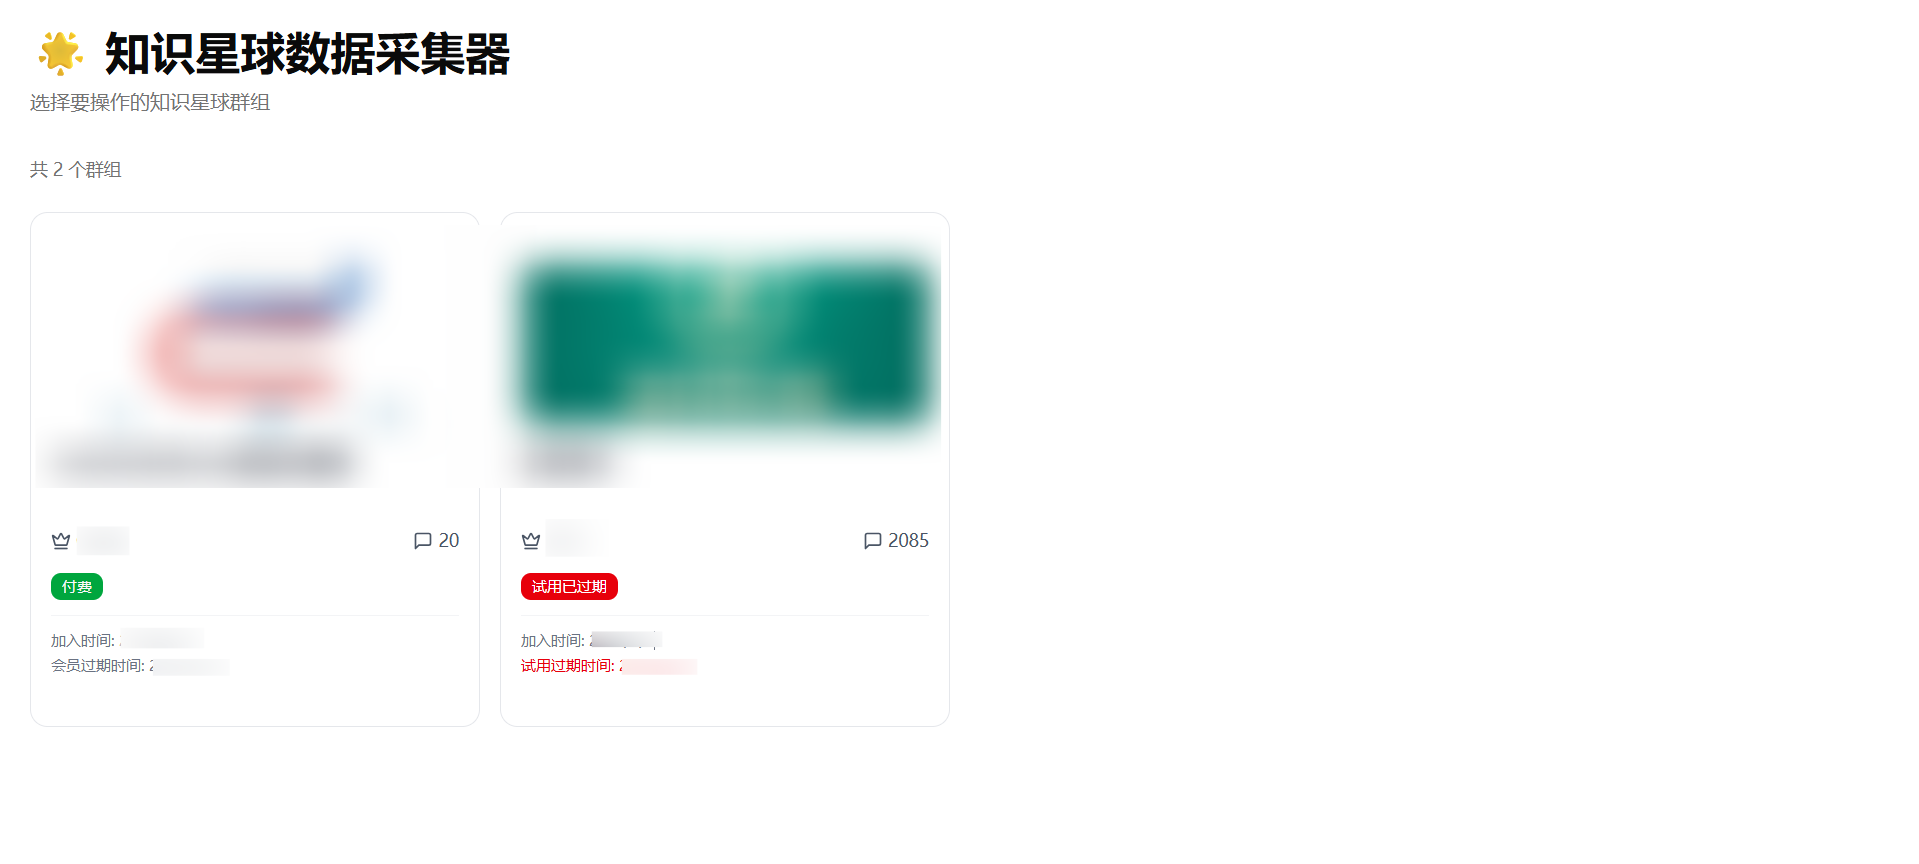
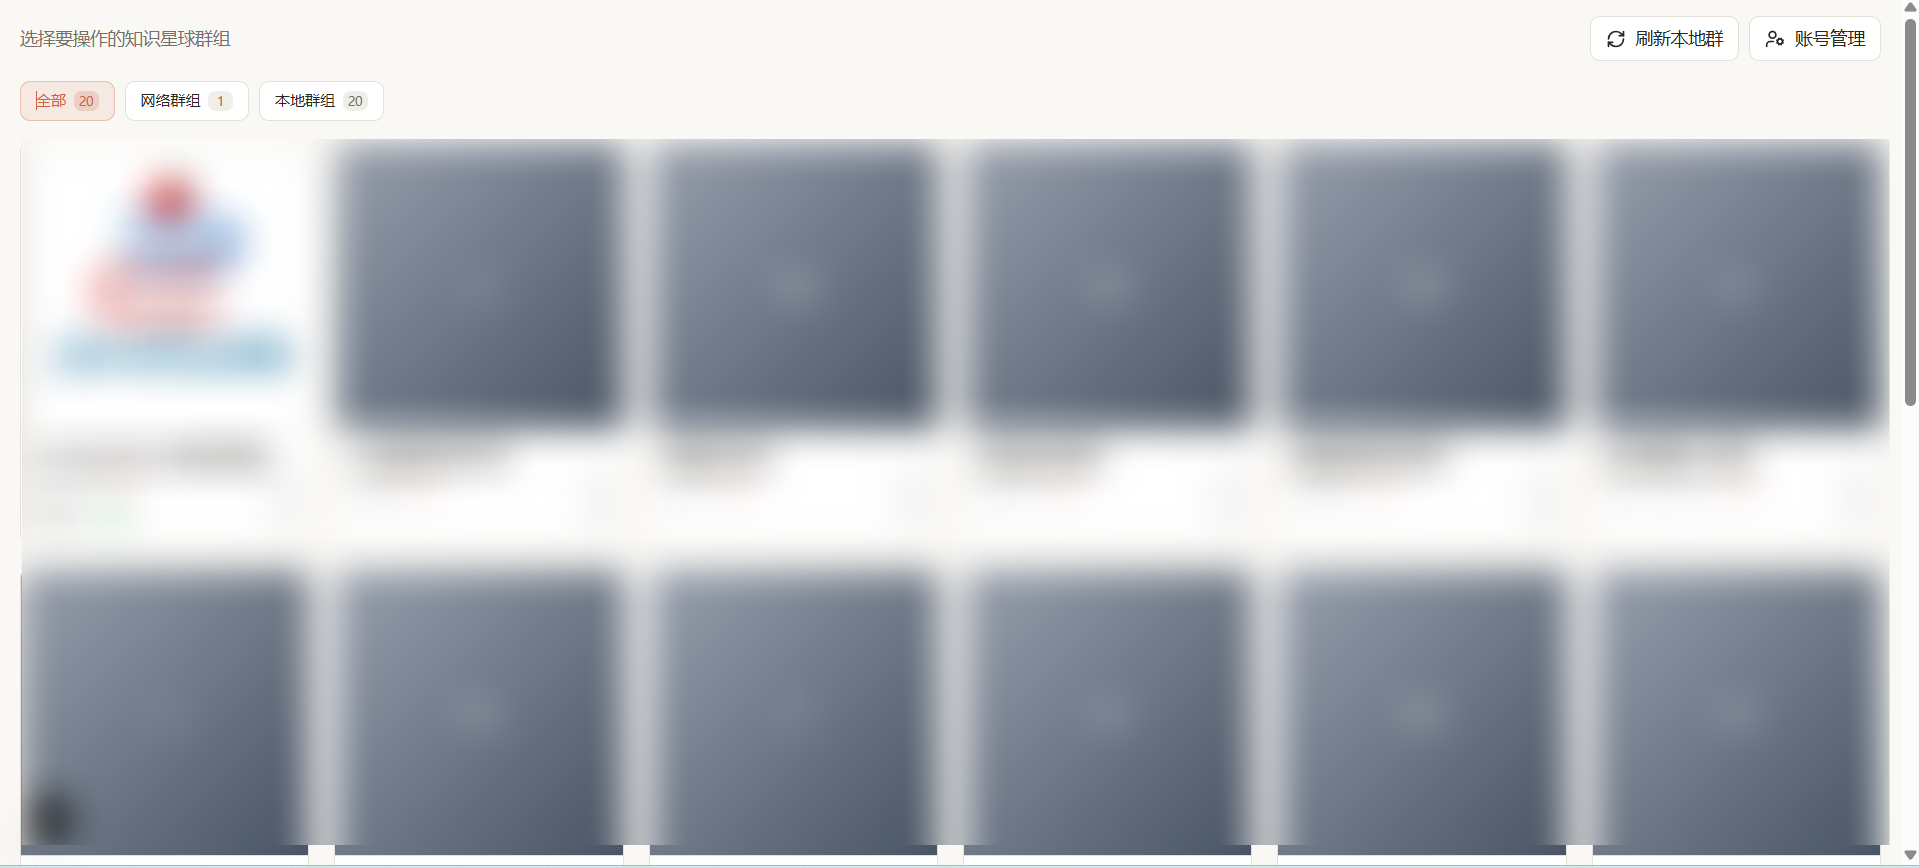
增加删除全部数据操作

diff --git a/frontend/src/components/GroupSelector.tsx b/frontend/src/components/GroupSelector.tsx
@@ -20,6 +20,10 @@ interface GroupSelectorProps {
 }
 
 type SourceFilter = 'all' | 'account' | 'local';
+type ResetAllResponse = {
+  success?: boolean;
+  message?: string;
+};
 
 export default function GroupSelector(_props: GroupSelectorProps) {
   const router = useRouter();
@@ -30,6 +34,7 @@ export default function GroupSelector(_props: GroupSelectorProps) {
   const [retryCount, setRetryCount] = useState(0);
   const [isRetrying, setIsRetrying] = useState(false);
   const [deletingGroups, setDeletingGroups] = useState<Set<number>>(new Set());
+  const [resettingAll, setResettingAll] = useState(false);
   // 当前激活的来源筛选标签
   const [sourceFilter, setSourceFilter] = useState<SourceFilter>('all');
   // 用户点击某个群组卡片后正在跳转到详情页的群组 id；用于立即显示全屏加载遮罩
@@ -235,6 +240,30 @@ export default function GroupSelector(_props: GroupSelectorProps) {
         s.delete(groupId);
         return s;
       });
+    }
+  };
+
+  const handleDeleteAllLocalData = async () => {
+    if (resettingAll) return;
+    setResettingAll(true);
+    try {
+      const res = await apiClient.deleteAllLocalData() as ResetAllResponse;
+      const success = res.success !== false;
+      const msg = res.message || '已重置为初始状态';
+      if (!success) {
+        throw new Error(msg);
+      }
+      toast.success(msg);
+      setGroups([]);
+      setGroupStats({});
+      window.setTimeout(() => {
+        window.location.href = '/';
+      }, 800);
+    } catch (err) {
+      const msg = err instanceof Error ? err.message : String(err);
+      toast.error(`删除全部失败: ${msg}`);
+    } finally {
+      setResettingAll(false);
     }
   };
 
@@ -485,6 +514,39 @@ export default function GroupSelector(_props: GroupSelectorProps) {
               </p>
             </div>
             <div className="flex items-center gap-2">
+              <AlertDialog>
+                <AlertDialogTrigger asChild>
+                  <Button
+                    variant="destructive"
+                    disabled={resettingAll}
+                    className="flex items-center gap-2"
+                  >
+                    {resettingAll ? (
+                      <Loader2 className="h-4 w-4 animate-spin" />
+                    ) : (
+                      <Trash2 className="h-4 w-4" />
+                    )}
+                    删除全部
+                  </Button>
+                </AlertDialogTrigger>
+                <AlertDialogContent>
+                  <AlertDialogHeader>
+                    <AlertDialogTitle className="text-destructive">确认删除全部数据并重置应用</AlertDialogTitle>
+                    <AlertDialogDescription>
+                      此操作将删除所有账号、Cookie、配置、社群本地数据库、下载文件与缓存，并删除 config.toml。应用会恢复到接近刚拉取代码的初始状态，操作不可恢复。
+                    </AlertDialogDescription>
+                  </AlertDialogHeader>
+                  <AlertDialogFooter>
+                    <AlertDialogCancel>取消</AlertDialogCancel>
+                    <AlertDialogAction
+                      className="bg-destructive text-white hover:bg-destructive/90 focus-visible:ring-destructive/30"
+                      onClick={handleDeleteAllLocalData}
+                    >
+                      确认删除全部
+                    </AlertDialogAction>
+                  </AlertDialogFooter>
+                </AlertDialogContent>
+              </AlertDialog>
               <Button
                 variant="outline"
                 onClick={handleRefresh}

diff --git a/frontend/src/lib/api.ts b/frontend/src/lib/api.ts
@@ -681,6 +681,12 @@ class ApiClient {
     });
   }
 
+  async deleteAllLocalData() {
+    return this.request('/api/local-data/reset', {
+      method: 'DELETE',
+    });
+  }
+
   // =========================
   // 专栏相关 API
   // =========================

diff --git a/main.py b/main.py
@@ -6,6 +6,8 @@
 import os
 import sys
 import asyncio
+import gc
+import shutil
 from typing import Dict, Any, Optional, List
 from datetime import datetime
 from contextlib import asynccontextmanager
@@ -32,6 +34,9 @@ from zsxq_interactive_crawler import ZSXQInteractiveCrawler, load_config
 from zsxq_database import ZSXQDatabase
 from zsxq_file_database import ZSXQFileDatabase
 from db_path_manager import get_db_path_manager
+import accounts_sql_manager as accounts_sql_module
+import account_info_db as account_info_module
+import image_cache_manager as image_cache_module
 from image_cache_manager import get_image_cache_manager
 # 使用SQL账号管理器
 from accounts_sql_manager import get_accounts_sql_manager
@@ -470,6 +475,67 @@ def is_task_stopped(task_id: str) -> bool:
     stopped = task_stop_flags.get(task_id, False)
     return stopped
 
+def get_active_task_ids() -> List[str]:
+    return [
+        task_id
+        for task_id, task in current_tasks.items()
+        if task.get("status") in {"pending", "running"}
+    ]
+
+def remove_sqlite_file(db_path: str) -> bool:
+    removed = False
+    for path in (db_path, f"{db_path}-wal", f"{db_path}-shm"):
+        if os.path.exists(path):
+            os.remove(path)
+            removed = True
+    return removed
+
+def close_runtime_handles() -> None:
+    global crawler_instance
+
+    if crawler_instance:
+        try:
+            if hasattr(crawler_instance, "file_downloader") and crawler_instance.file_downloader:
+                if hasattr(crawler_instance.file_downloader, "file_db") and crawler_instance.file_downloader.file_db:
+                    crawler_instance.file_downloader.file_db.close()
+        except Exception as e:
+            print(f"⚠ 关闭全局文件数据库连接失败: {e}")
+        try:
+            if hasattr(crawler_instance, "db") and crawler_instance.db:
+                crawler_instance.db.close()
+        except Exception as e:
+            print(f"⚠ 关闭全局话题数据库连接失败: {e}")
+        crawler_instance = None
+
+    for task_id, downloader in list(file_downloader_instances.items()):
+        try:
+            if hasattr(downloader, "file_db") and downloader.file_db:
+                downloader.file_db.close()
+        except Exception as e:
+            print(f"⚠ 关闭任务 {task_id} 文件数据库连接失败: {e}")
+    file_downloader_instances.clear()
+
+    try:
+        sql_singleton = getattr(accounts_sql_module, "_sql_manager_singleton", None)
+        if sql_singleton:
+            sql_singleton.close()
+        accounts_sql_module._sql_manager_singleton = None
+    except Exception as e:
+        print(f"⚠ 关闭账号数据库连接失败: {e}")
+
+    try:
+        info_singleton = getattr(account_info_module, "_db_singleton", None)
+        if info_singleton:
+            info_singleton.close()
+        account_info_module._db_singleton = None
+    except Exception as e:
+        print(f"⚠ 关闭账号信息数据库连接失败: {e}")
+
+    try:
+        image_cache_module._cache_managers.clear()
+    except Exception as e:
+        print(f"⚠ 清理图片缓存管理器失败: {e}")
+
 # API路由定义
 @app.get("/")
 async def root():
@@ -532,6 +598,119 @@ dir = "downloads"
         return {"message": "配置更新成功", "success": True}
     except Exception as e:
         raise HTTPException(status_code=500, detail=f"更新配置失败: {str(e)}")
+
+@app.delete("/api/local-data/reset")
+async def reset_all_local_data():
+    try:
+        active_task_ids = get_active_task_ids()
+        if active_task_ids:
+            raise HTTPException(
+                status_code=409,
+                detail=f"存在正在运行的任务，请先停止后再重置: {', '.join(active_task_ids)}"
+            )
+
+        details = {
+            "output_dir_removed": False,
+            "database_dir_removed": False,
+            "cache_dir_removed": False,
+            "downloads_dir_removed": False,
+            "config_removed": False,
+            "env_files_removed": [],
+            "accounts_json_reset": False,
+            "accounts_json_backup_removed": False,
+            "task_state_cleared": False,
+        }
+        errors = []
+
+        close_runtime_handles()
+        gc.collect()
+        time.sleep(0.3)
+
+        def remove_dir(key: str, path: str) -> None:
+            if not os.path.exists(path):
+                return
+            try:
+                shutil.rmtree(path, ignore_errors=False)
+                details[key] = True
+            except Exception as exc:
+                errors.append({"path": path, "error": str(exc)})
+
+        def remove_file(key: str, path: str) -> None:
+            if not os.path.exists(path):
+                return
+            try:
+                os.remove(path)
+                details[key] = True
+            except Exception as exc:
+                errors.append({"path": path, "error": str(exc)})
+
+        path_manager = get_db_path_manager()
+        output_dir = LOCAL_OUTPUT_DIR if os.path.isabs(LOCAL_OUTPUT_DIR) else os.path.join(project_root, LOCAL_OUTPUT_DIR)
+        database_root = (
+            os.path.dirname(path_manager.base_dir)
+            if os.path.basename(path_manager.base_dir) == "databases"
+            else path_manager.base_dir
+        )
+
+        remove_dir("output_dir_removed", output_dir)
+        if os.path.abspath(database_root) != os.path.abspath(output_dir):
+            remove_dir("database_dir_removed", database_root)
+
+        remove_dir("cache_dir_removed", os.path.join(project_root, "cache"))
+        remove_dir("downloads_dir_removed", os.path.join(project_root, "downloads"))
+        remove_file("config_removed", os.path.join(project_root, "config.toml"))
+
+        for env_path in (
+            os.path.join(project_root, ".env"),
+            os.path.join(project_root, ".env.local"),
+            os.path.join(project_root, "frontend", ".env"),
+            os.path.join(project_root, "frontend", ".env.local"),
+            os.path.join(project_root, "frontend", ".env.development.local"),
+            os.path.join(project_root, "frontend", ".env.production.local"),
+        ):
+            if not os.path.exists(env_path):
+                continue
+            try:
+                os.remove(env_path)
+                details["env_files_removed"].append(env_path)
+            except Exception as exc:
+                errors.append({"path": env_path, "error": str(exc)})
+
+        accounts_path = os.path.join(project_root, "accounts.json")
+        try:
+            with open(accounts_path, "w", encoding="utf-8") as f:
+                json.dump({"accounts": [], "group_account_map": {}}, f, ensure_ascii=False, indent=2)
+            details["accounts_json_reset"] = True
+        except Exception as exc:
+            errors.append({"path": accounts_path, "error": str(exc)})
+
+        remove_file("accounts_json_backup_removed", accounts_path + ".backup")
+
+        _local_groups_cache["ids"] = set()
+        _local_groups_cache["scanned_at"] = time.time()
+        _account_detect_cache["built_at"] = 0
+        _account_detect_cache["group_to_account"] = {}
+        _account_detect_cache["cookie_by_account"] = {}
+
+        global task_counter
+        current_tasks.clear()
+        task_logs.clear()
+        task_stop_flags.clear()
+        sse_connections.clear()
+        task_counter = 0
+        details["task_state_cleared"] = True
+
+        success = len(errors) == 0
+        return {
+            "success": success,
+            "message": "已重置为初始状态" if success else "重置部分完成，部分文件删除失败",
+            "details": details,
+            "errors": errors,
+        }
+    except HTTPException:
+        raise
+    except Exception as e:
+        raise HTTPException(status_code=500, detail=f"重置全部本地数据失败: {str(e)}")
 
 # 账号管理 API
 @app.get("/api/accounts")
@@ -3947,6 +4126,7 @@ async def delete_group_local(group_id: str):
         details = {
             "topics_db_removed": False,
             "files_db_removed": False,
+            "columns_db_removed": False,
             "downloads_dir_removed": False,
             "images_cache_removed": False,
             "group_dir_removed": False,
@@ -3972,7 +4152,6 @@ async def delete_group_local(group_id: str):
             print(f"⚠ 获取爬虫实例以关闭连接失败: {e}")
 
         # 垃圾回收 + 等待片刻，确保句柄释放
-        import gc, time, shutil
         gc.collect()
         time.sleep(0.3)
 
@@ -3980,11 +4159,11 @@ async def delete_group_local(group_id: str):
         group_dir = path_manager.get_group_dir(group_id)
         topics_db = path_manager.get_topics_db_path(group_id)
         files_db = path_manager.get_files_db_path(group_id)
+        columns_db = path_manager.get_columns_db_path(group_id)
 
         # 删除话题数据库
         try:
-            if os.path.exists(topics_db):
-                os.remove(topics_db)
+            if remove_sqlite_file(topics_db):
                 details["topics_db_removed"] = True
                 print(f"🗑 已删除话题数据库: {topics_db}")
         except PermissionError as pe:
@@ -3994,14 +4173,22 @@ async def delete_group_local(group_id: str):
 
         # 删除文件数据库
         try:
-            if os.path.exists(files_db):
-                os.remove(files_db)
+            if remove_sqlite_file(files_db):
                 details["files_db_removed"] = True
                 print(f"🗑 已删除文件数据库: {files_db}")
         except PermissionError as pe:
             raise HTTPException(status_code=500, detail=f"文件数据库被占用，无法删除: {pe}")
         except Exception as e:
             print(f"⚠ 删除文件数据库失败: {e}")
+
+        try:
+            if remove_sqlite_file(columns_db):
+                details["columns_db_removed"] = True
+                print(f"🗑 已删除专栏数据库: {columns_db}")
+        except PermissionError as pe:
+            raise HTTPException(status_code=500, detail=f"专栏数据库被占用，无法删除: {pe}")
+        except Exception as e:
+            print(f"⚠ 删除专栏数据库失败: {e}")
 
         # 删除下载目录
         downloads_dir = os.path.join(group_dir, "downloads")
